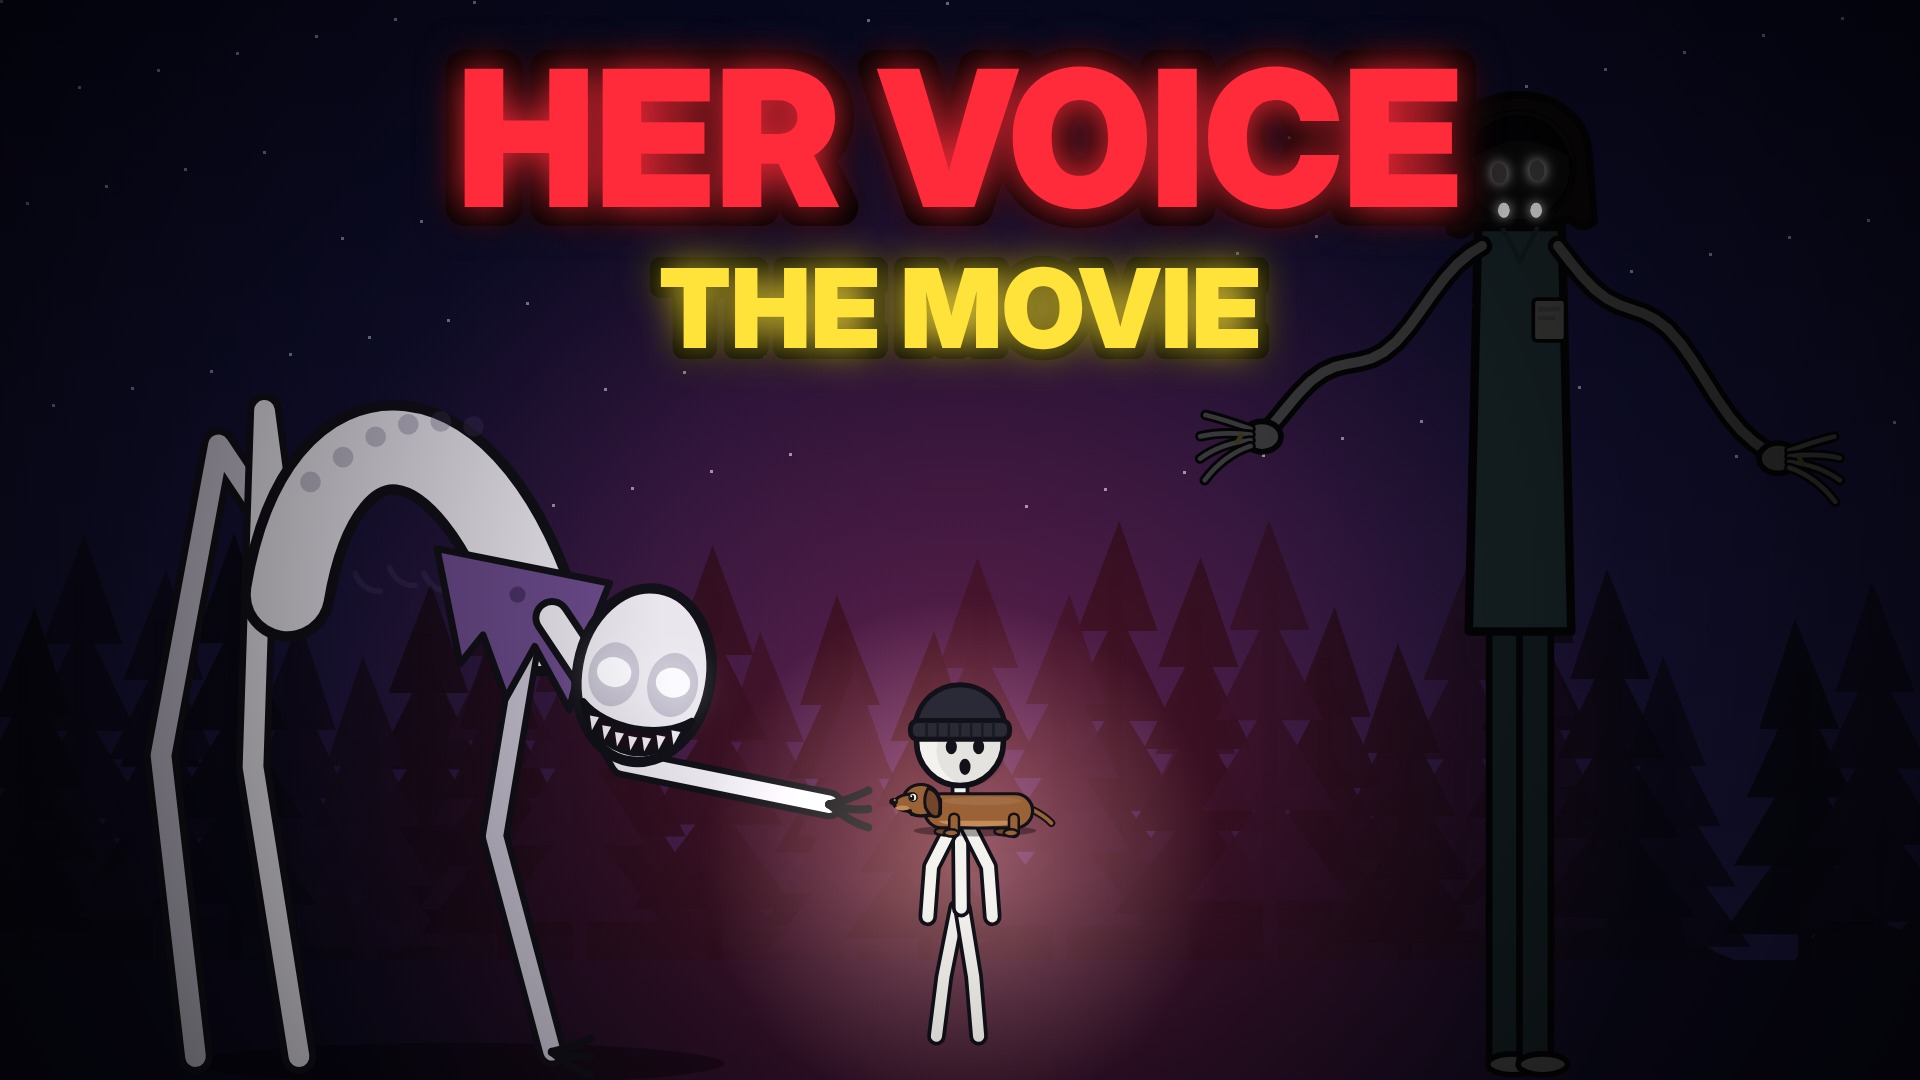
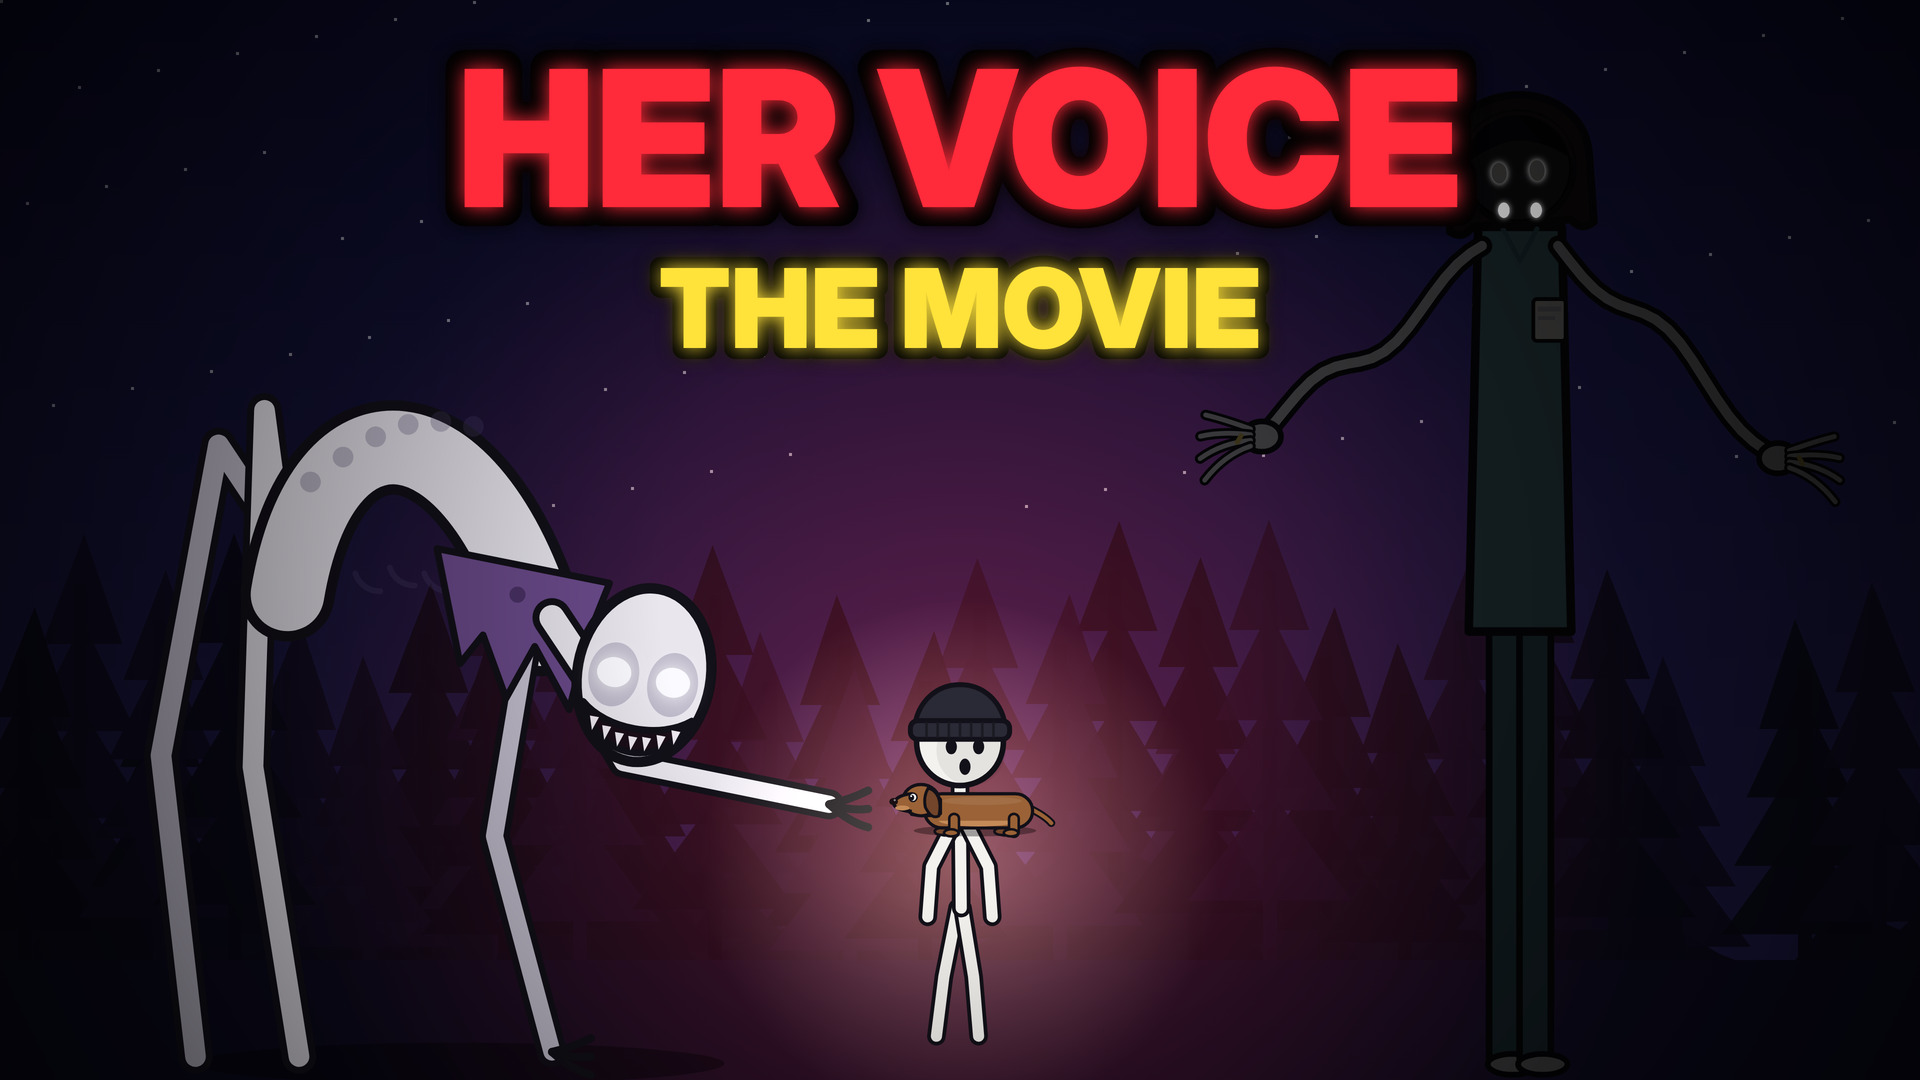
HER VOICE movie: HQ story + thumbnail rendered natively at 2x
Claude-Session: https://claude.ai/code/session_013waGN2ARspf4yShZssZUe5

Changed region(s): [[0.2188, 0.0306, 0.7812, 0.3361], [0.5625, 0.2444, 0.5938, 0.275]]

diff --git a/youtube/horror/it-knows-her-voice/web/thumbs.html b/youtube/horror/it-knows-her-voice/web/thumbs.html
@@ -414,6 +414,24 @@ window.renderMovie = (k = 1) => { cv.width = 1920 * k; cv.height = 1080 * k; g.s
   const big = (txt, y, size, col) => { g.save(); g.font = `900 ${size}px "Inter Display", "DejaVu Sans", sans-serif`; g.textAlign = 'center'; g.textBaseline = 'middle'; g.lineJoin = 'round'; g.lineWidth = size * 0.2; g.strokeStyle = '#000'; g.shadowColor = 'rgba(0,0,0,0.9)'; g.shadowBlur = 30; g.strokeText(txt, 960, y); g.shadowBlur = 0; if (col !== '#ffffff') { g.shadowColor = col; g.shadowBlur = 40; } g.fillStyle = col; g.fillText(txt, 960, y); g.restore(); };
   big('HER VOICE', 150, 190, '#ff2a3a'); big('THE MOVIE', 315, 110, '#ffe23a');
   return true; };
+
+// portrait (1080x1920) Instagram story for the full movie, drawn natively (no pasted image)
+window.renderStoryMovie = (k = 2) => { cv.width = 1080 * k; cv.height = 1920 * k; g.setTransform(k, 0, 0, k, 0, 0); g.clearRect(0, 0, 1080, 1920); T = 1.0;
+  g.fillStyle = lin(0, 0, 0, 1920, [[0, '#07061a'], [0.55, '#1e1a46'], [1, '#05040a']]); g.fillRect(0, 0, 1080, 1920);
+  g.fillStyle = 'rgba(255,255,255,0.5)'; for (let i = 0; i < 60; i++) g.fillRect((i * 263) % 1080, 560 + (i * 151) % 420, 3, 3);
+  g.save(); g.translate(0, 420); woods(1000, 0.95); g.restore(); g.fillStyle = '#0b0a1e'; g.fillRect(0, 1400, 1080, 520);
+  add(() => { const rg = g.createRadialGradient(540, 1150, 20, 540, 1150, 620); rg.addColorStop(0, 'rgba(255,40,60,0.30)'); rg.addColorStop(1, 'rgba(255,40,60,0)'); g.fillStyle = rg; g.fillRect(0, 500, 1080, 1100); });
+  g.save(); g.translate(250, 1450); g.scale(-0.85, 0.85); g.translate(-300, -975); skinwalker(g, { pose: 'crouch', t: 1.4, eyes: 1, mouth: 0.9, smile: 1, reach: 0.65 }); g.restore();
+  tallThing(860, 1460, 0.78, { face: 'dark', dark: 0.25, reach: 0.3, t: 0.4, eyeY: 70 });
+  add(() => { const rg = g.createRadialGradient(540, 1280, 10, 540, 1280, 220); rg.addColorStop(0, 'rgba(255,240,200,0.32)'); rg.addColorStop(1, 'rgba(255,240,200,0)'); g.fillStyle = rg; g.fillRect(250, 1000, 580, 500); });
+  hero(540 - 300 * 0.5, 1440 - 975 * 0.5, 0.5, { expr: 'shock', look: 0 }); dog(552, 1440 - 170, 0.29, { pose: 'crouch', ears: 'down', t: 0, flip: true });
+  const vg = g.createRadialGradient(540, 1100, 250, 540, 1000, 1150); vg.addColorStop(0, 'rgba(0,0,0,0)'); vg.addColorStop(1, 'rgba(0,0,0,0.7)'); g.fillStyle = vg; g.fillRect(0, 0, 1080, 1920);
+  const big = (txt, y, size, col) => { g.save(); g.font = `900 ${size}px "Inter Display", "DejaVu Sans", sans-serif`; g.textAlign = 'center'; g.textBaseline = 'middle'; g.lineJoin = 'round';
+    let sz = size; while (g.measureText(txt).width > 1000) { sz -= 4; g.font = `900 ${sz}px "Inter Display", sans-serif`; }
+    g.lineWidth = sz * 0.2; g.strokeStyle = '#000'; g.shadowColor = 'rgba(0,0,0,0.9)'; g.shadowBlur = 30; g.strokeText(txt, 540, y); g.shadowBlur = 0; if (col !== '#ffffff') { g.shadowColor = col; g.shadowBlur = 40; } g.fillStyle = col; g.fillText(txt, 540, y); g.restore(); };
+  big('HER VOICE', 210, 170, '#ff2a3a'); big('THE FULL MOVIE', 370, 104, '#ffffff'); big('IS OUT NOW', 490, 104, '#ffe23a');
+  g.save(); g.textAlign = 'center'; g.fillStyle = '#e6e0f5'; g.font = '800 54px "Inter Display", sans-serif'; g.shadowColor = 'rgba(0,0,0,0.9)'; g.shadowBlur = 20; g.fillText('All 8 parts. One story.', 540, 1555); g.fillStyle = '#c6ff3a'; g.fillText('Watch it on YouTube', 540, 1630); g.restore();
+  return true; };
 window.renderThumb = (n, k = 2) => { cv.width = W * k; cv.height = H * k; g.setTransform(k, 0, 0, k, 0, 0); g.clearRect(0, 0, W, H); THUMBS[n](); return true; };
 document.fonts.load('900 92px "Inter Display"').then(() => { window.ready = true; });
 </script></body></html>
